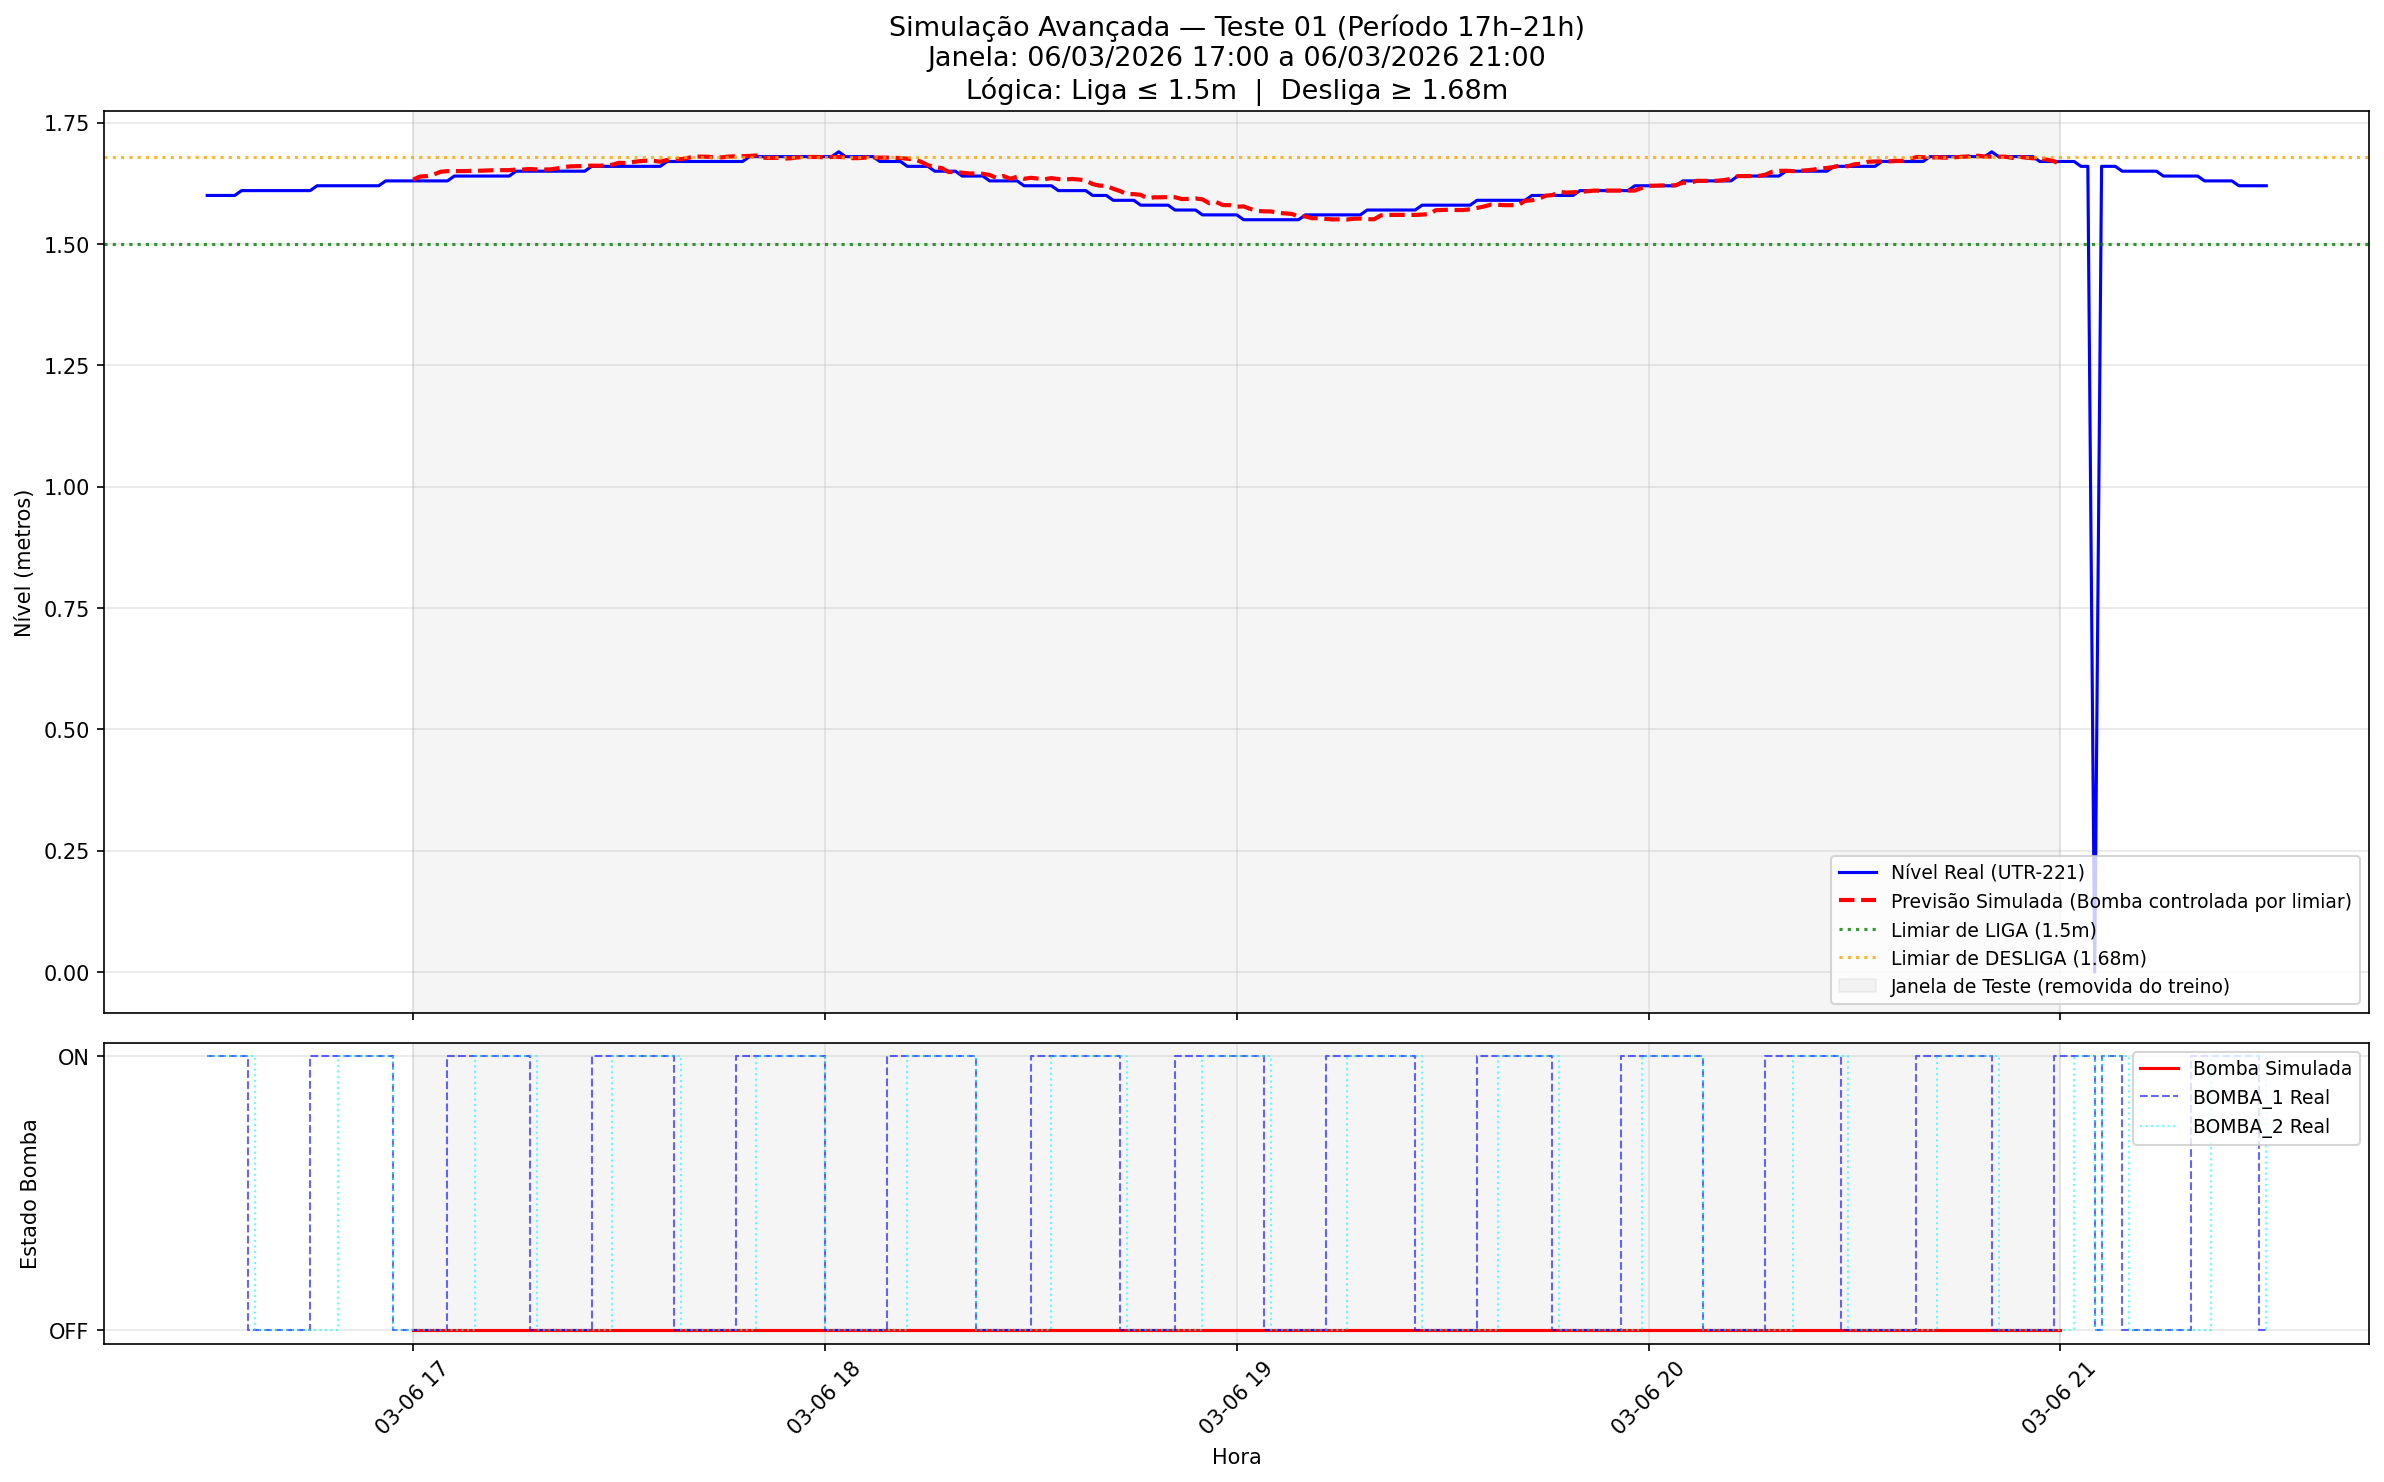
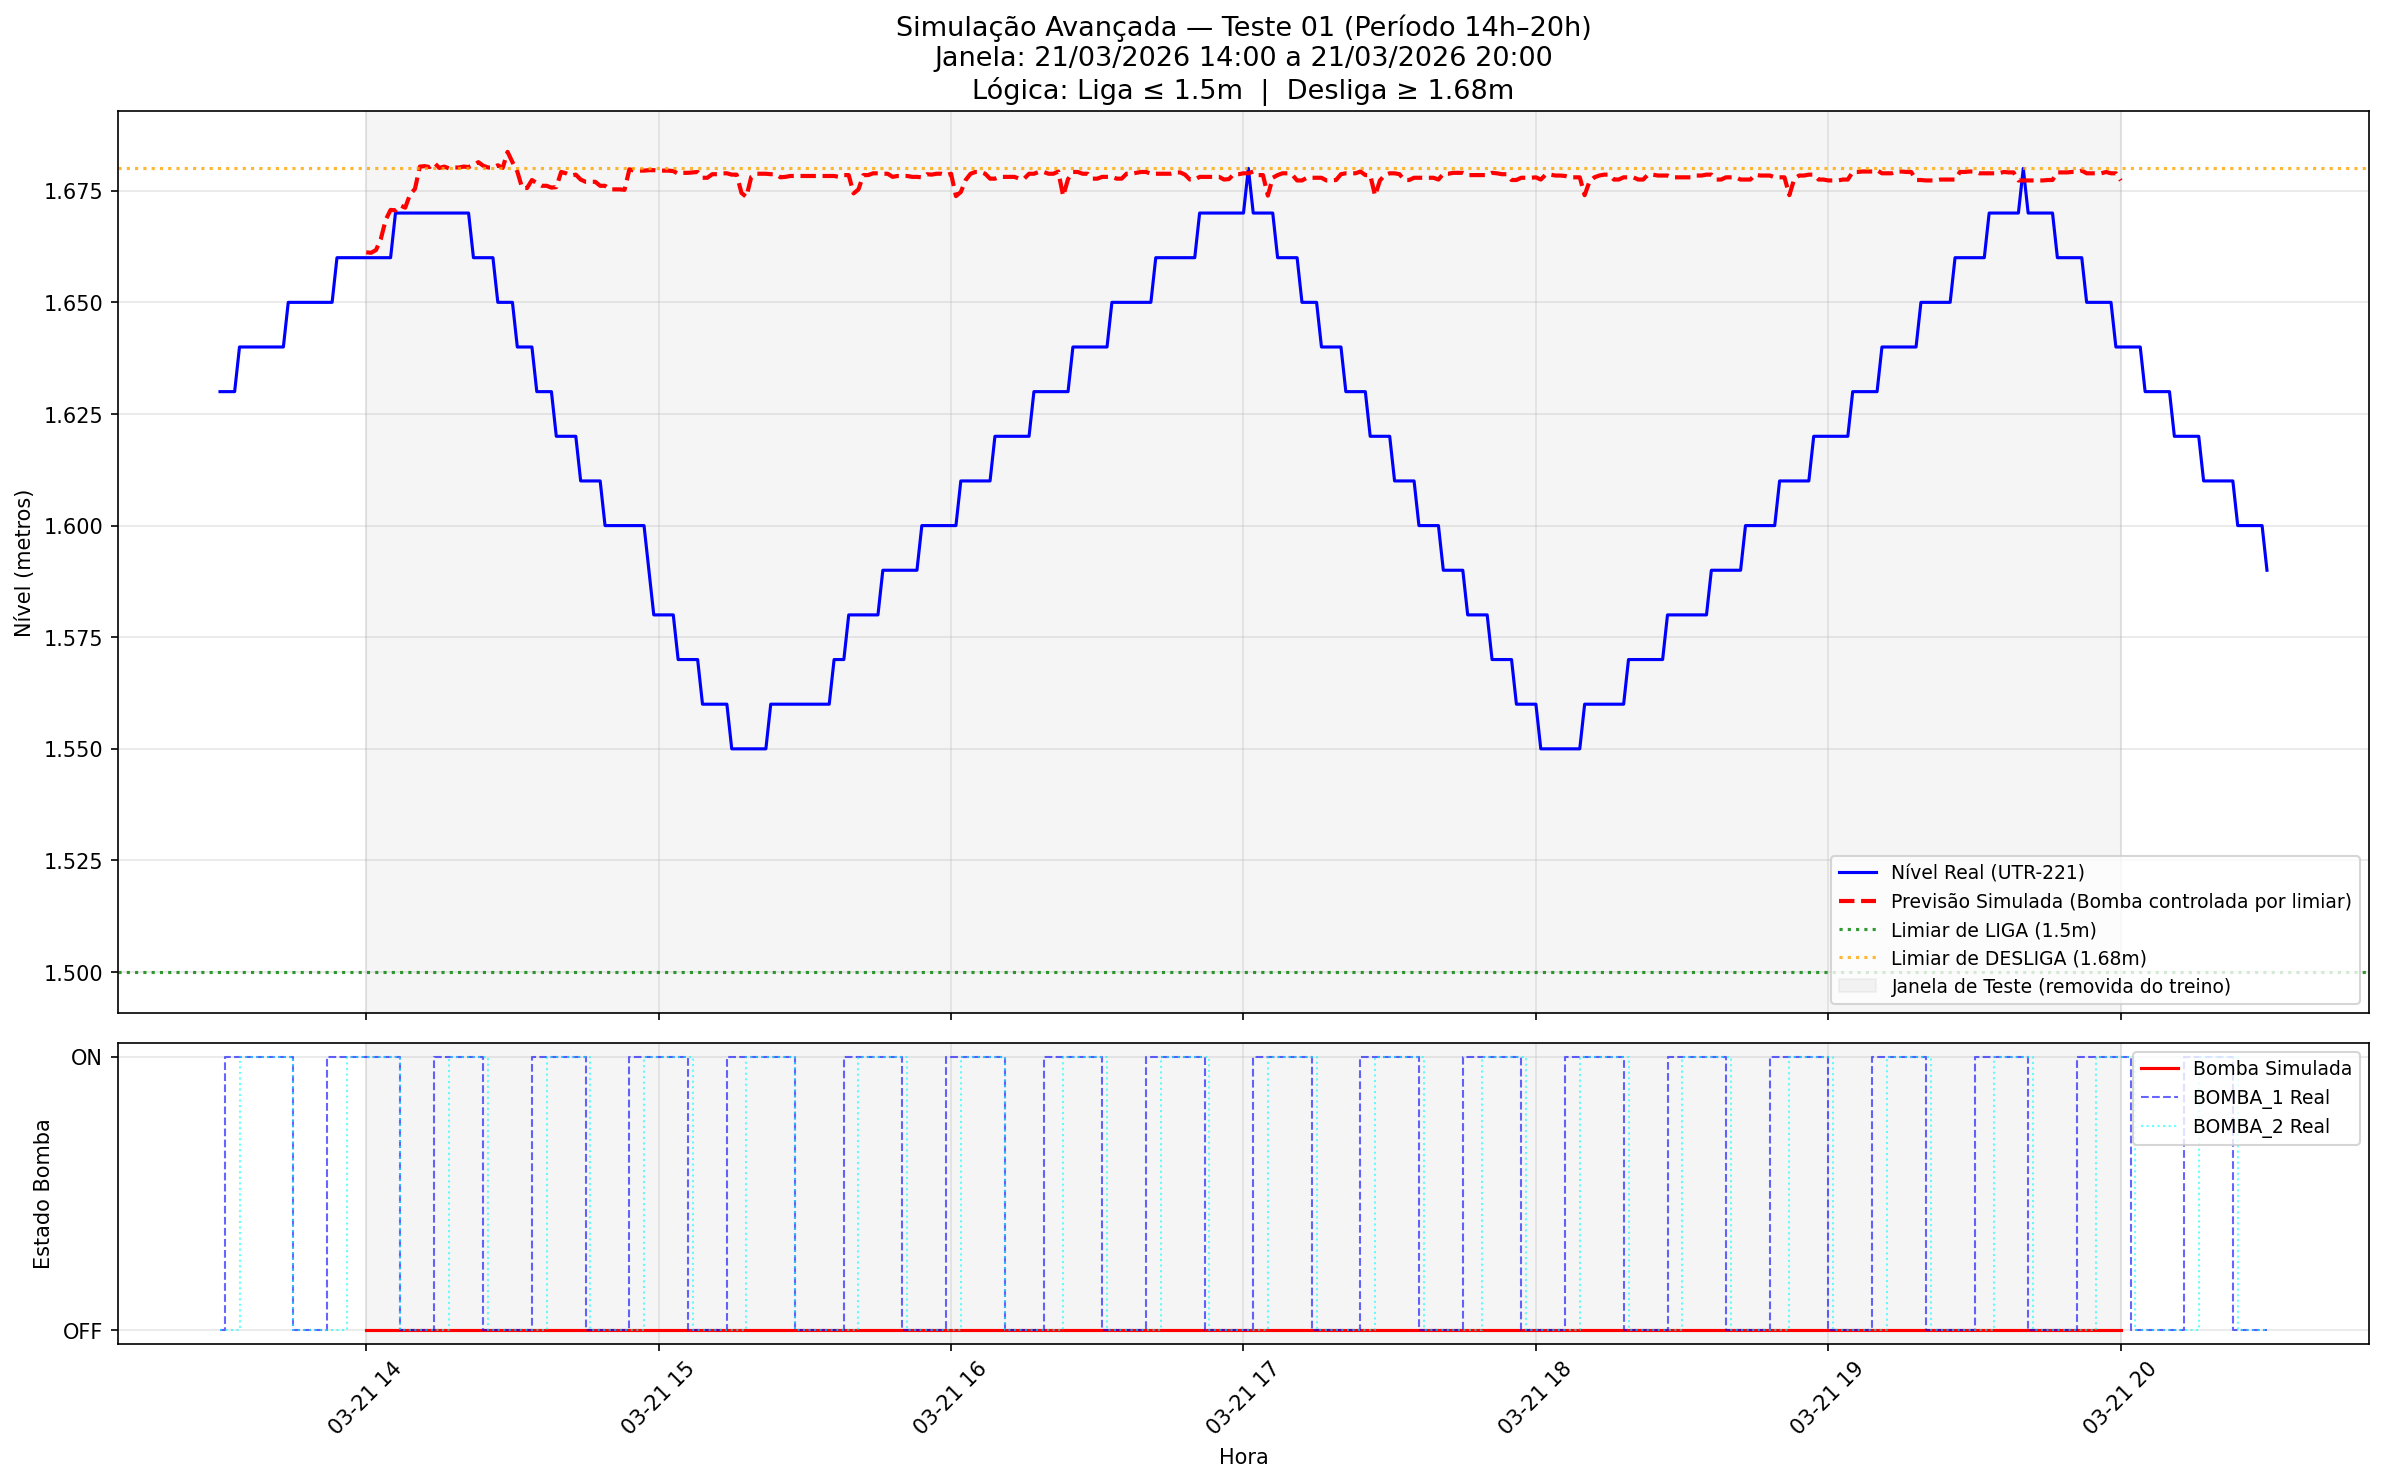
Change test window to 2026-03-21 14:00-20:00 for advanced simulation test 01
Agent-Logs-Url: https://github.com/LEUDOLOIOLA/Integrador/sessions/b624f1be-0178-49c1-b265-30e4a46019c3

diff --git a/ML/UTR221_ML_simulacao_avancada.py b/ML/UTR221_ML_simulacao_avancada.py
@@ -63,19 +63,19 @@ print(f"DF2 (sem target=0):  {len(df2)} linhas  ({len(df) - len(df2)} removidas)
 # ============================================================
 
 print("\n" + "=" * 65)
-print("   SIMULAÇÃO AVANÇADA — TESTE 01 (17h – 21h)")
+print("   SIMULAÇÃO AVANÇADA — TESTE 01 (14h – 20h)")
 print("=" * 65)
 
 NIVEL_LIGA    = 1.50   # nível que aciona a bomba
 NIVEL_DESLIGA = 1.68   # nível que desliga a bomba
 
-# --- 3.1 Definir a janela de teste: 06/MAR/2026 17:00 – 21:00 ---
-inicio_teste = pd.Timestamp('2026-03-06 17:00:00')
-fim_teste    = pd.Timestamp('2026-03-06 21:00:00')
+# --- 3.1 Definir a janela de teste: 21/MAR/2026 14:00 – 20:00 ---
+inicio_teste = pd.Timestamp('2026-03-21 14:00:00')
+fim_teste    = pd.Timestamp('2026-03-21 20:00:00')
 
 nivel = df['NIVEL-UTR-221']
 
-print(f"Janela de teste (período 17h–21h):")
+print(f"Janela de teste (período 14h–20h):")
 print(f"  Início: {inicio_teste}  → nível real = {nivel.loc[inicio_teste]:.2f}m")
 print(f"  Fim:    {fim_teste}  → nível real = {nivel.loc[fim_teste]:.2f}m")
 print(f"  Duração: {fim_teste - inicio_teste}  |  "
@@ -220,7 +220,7 @@ else:
                 label='Janela de Teste (removida do treino)')
     ax1.set_ylabel('Nível (metros)')
     ax1.set_title(
-        f'Simulação Avançada — Teste 01 (Período 17h–21h)\n'
+        f'Simulação Avançada — Teste 01 (Período 14h–20h)\n'
         f'Janela: {inicio_teste.strftime("%d/%m/%Y %H:%M")} a '
         f'{fim_teste.strftime("%d/%m/%Y %H:%M")}\n'
         f'Lógica: Liga ≤ {NIVEL_LIGA}m  |  Desliga ≥ {NIVEL_DESLIGA}m',
